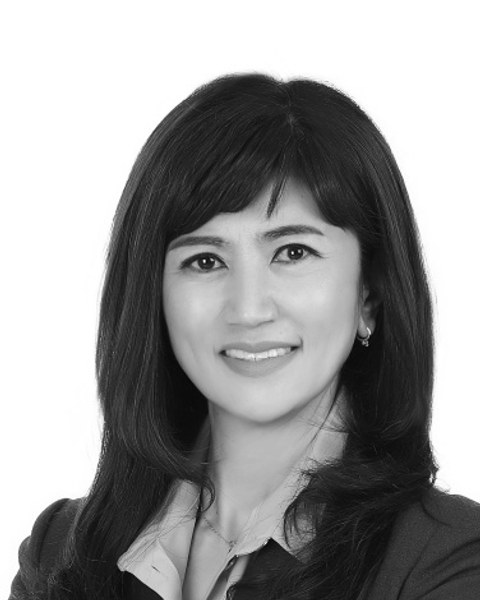
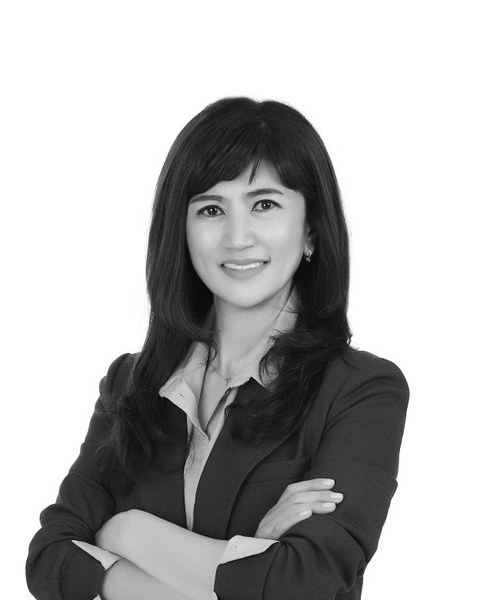
Dial back 김금단/안소현 zoom, fix 김금단 vertical position
Reverted the two to the earlier half-body arms-visible framing after
feedback that the tight bust-only crop looked inconsistent next to
the rest of the roster. Also shifted 김금단's box down to remove
excess empty space above her head.

diff --git a/index.html b/index.html
@@ -204,8 +204,8 @@
           <h3>김진우</h3>
           <p class="tcard-role">부원장 · 국어</p>
         </div>
-        <div class="carousel-slide tcard lightbox-trigger" data-name="김금단" data-role="팀장 · 영어" data-photo="assets/teacher-kimgeumdan.jpg?v=5">
-          <div class="tcard-photo-wrap"><img class="tcard-photo" src="assets/teacher-kimgeumdan.jpg?v=5" alt="김금단"></div>
+        <div class="carousel-slide tcard lightbox-trigger" data-name="김금단" data-role="팀장 · 영어" data-photo="assets/teacher-kimgeumdan.jpg?v=6">
+          <div class="tcard-photo-wrap"><img class="tcard-photo" src="assets/teacher-kimgeumdan.jpg?v=6" alt="김금단"></div>
           <h3>김금단</h3>
           <p class="tcard-role">팀장 · 영어</p>
         </div>
@@ -219,8 +219,8 @@
           <h3>신병철</h3>
           <p class="tcard-role">수학</p>
         </div>
-        <div class="carousel-slide tcard lightbox-trigger" data-name="안소현" data-role="국어" data-photo="assets/teacher-ansoseon.jpg?v=5">
-          <div class="tcard-photo-wrap"><img class="tcard-photo" src="assets/teacher-ansoseon.jpg?v=5" alt="안소현"></div>
+        <div class="carousel-slide tcard lightbox-trigger" data-name="안소현" data-role="국어" data-photo="assets/teacher-ansoseon.jpg?v=6">
+          <div class="tcard-photo-wrap"><img class="tcard-photo" src="assets/teacher-ansoseon.jpg?v=6" alt="안소현"></div>
           <h3>안소현</h3>
           <p class="tcard-role">국어</p>
         </div>

diff --git a/process-teachers.js b/process-teachers.js
@@ -11,10 +11,10 @@ const OUT_W = 480, OUT_H = 600; // 4:5 portrait, consistent across all cards
 const photos = [
   { file: '디쌤 원장 프로필.jpg', out: 'teacher-disaem.jpg', top: 0.07, bottom: 0.88, left: 0.1635, right: 0.8115, normalize: true },
   { file: '김진우 프로필.jpg', out: 'teacher-kimjinwoo.jpg', top: 0.02, bottom: 0.57, left: 0.23, right: 0.78 },
-  { file: '김금단 프로필.png', out: 'teacher-kimgeumdan.jpg', top: 0.15, bottom: 0.55, left: 0.28, right: 0.74 },
+  { file: '김금단 프로필.png', out: 'teacher-kimgeumdan.jpg', top: 0.16, bottom: 0.74, left: 0.17, right: 0.82 },
   { file: '배경호 프로필.jpg', out: 'teacher-baekyungho.jpg', top: 0.015, bottom: 0.87, left: 0.11, right: 0.92 },
   { file: '신병철프로필.png', out: 'teacher-shinbyungchul.jpg', top: 0.02, bottom: 0.804, left: 0.05, right: 0.93 },
-  { file: '안소현 프로필.jpg', out: 'teacher-ansoseon.jpg', top: 0.10, bottom: 0.46, left: 0.29, right: 0.68 },
+  { file: '안소현 프로필.jpg', out: 'teacher-ansoseon.jpg', top: 0.05, bottom: 0.64, left: 0.17, right: 0.82 },
   { file: '최윤후 프로필.jpg', out: 'teacher-choiyoonhoo.jpg', top: 0.015, bottom: 0.777, left: 0.08, right: 0.89 },
   { file: '조윤성 프로필.png', out: 'teacher-jhoyoonsung.jpg', top: 0.12, bottom: 0.76, left: 0.13, right: 0.85 },
   { file: '장효진 프로필.jpg', out: 'teacher-jangHyojin.jpg', top: 0.08, bottom: 0.50, left: 0.2225, right: 0.7275 },
